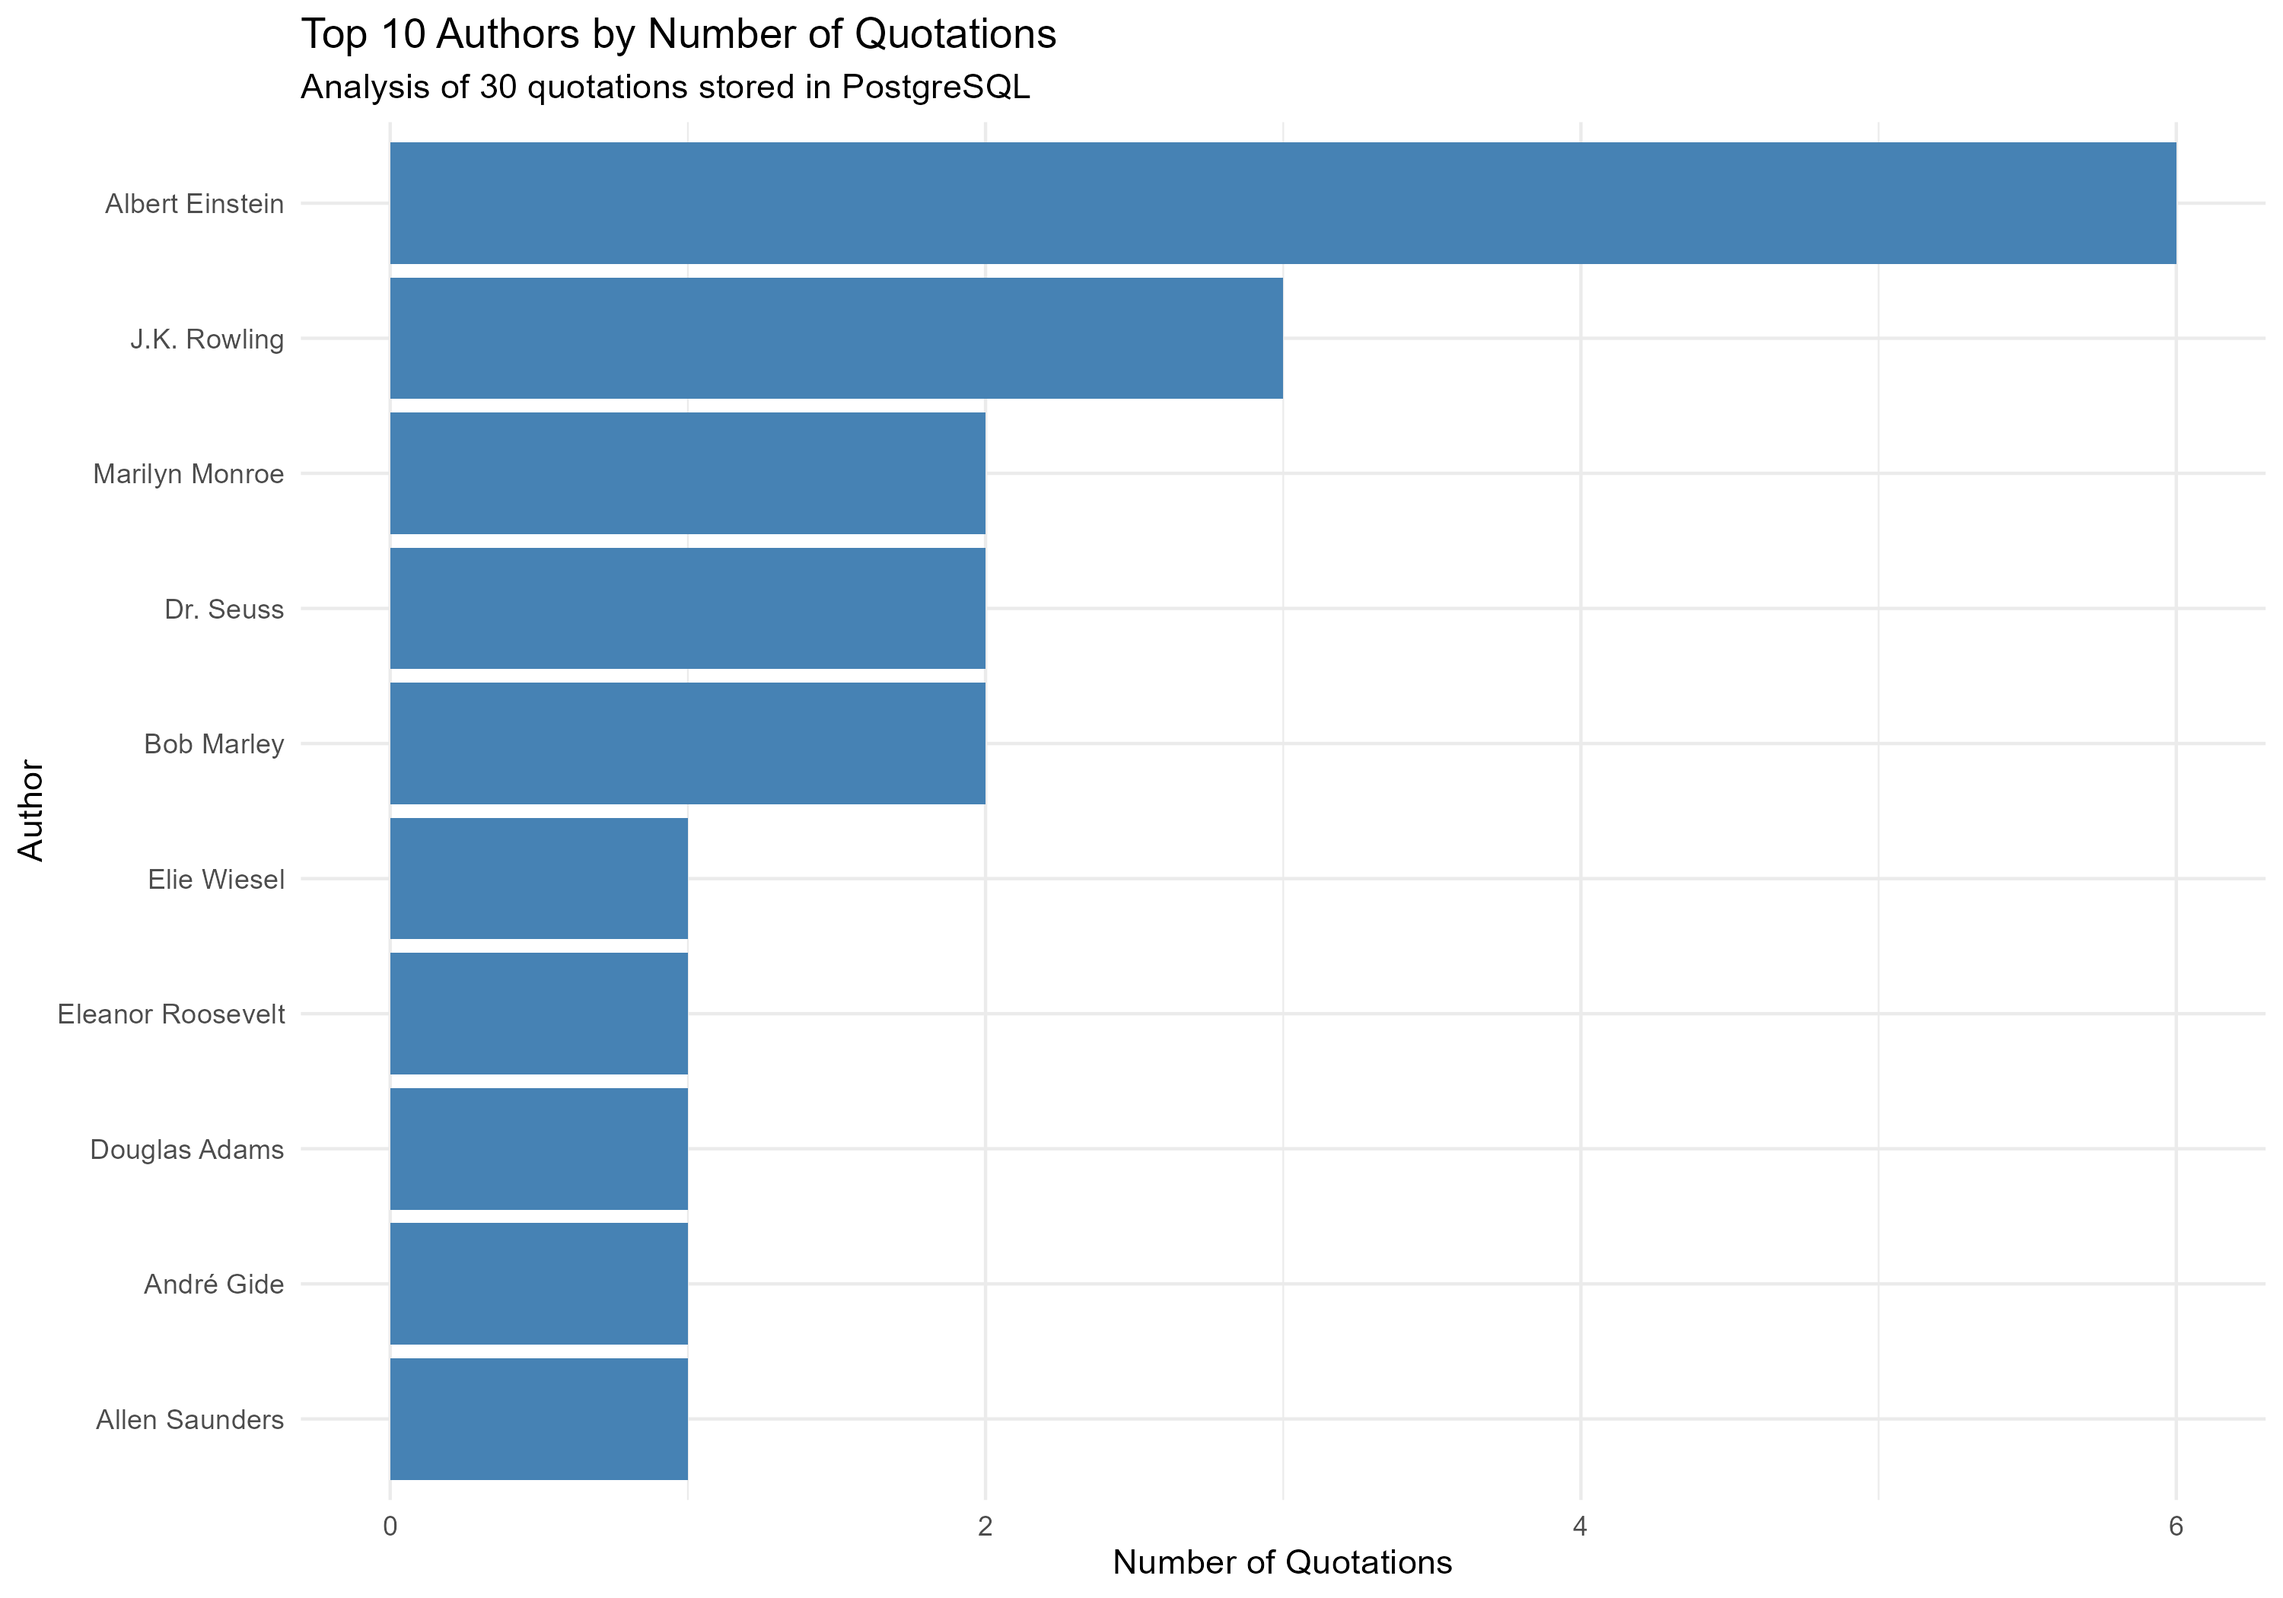
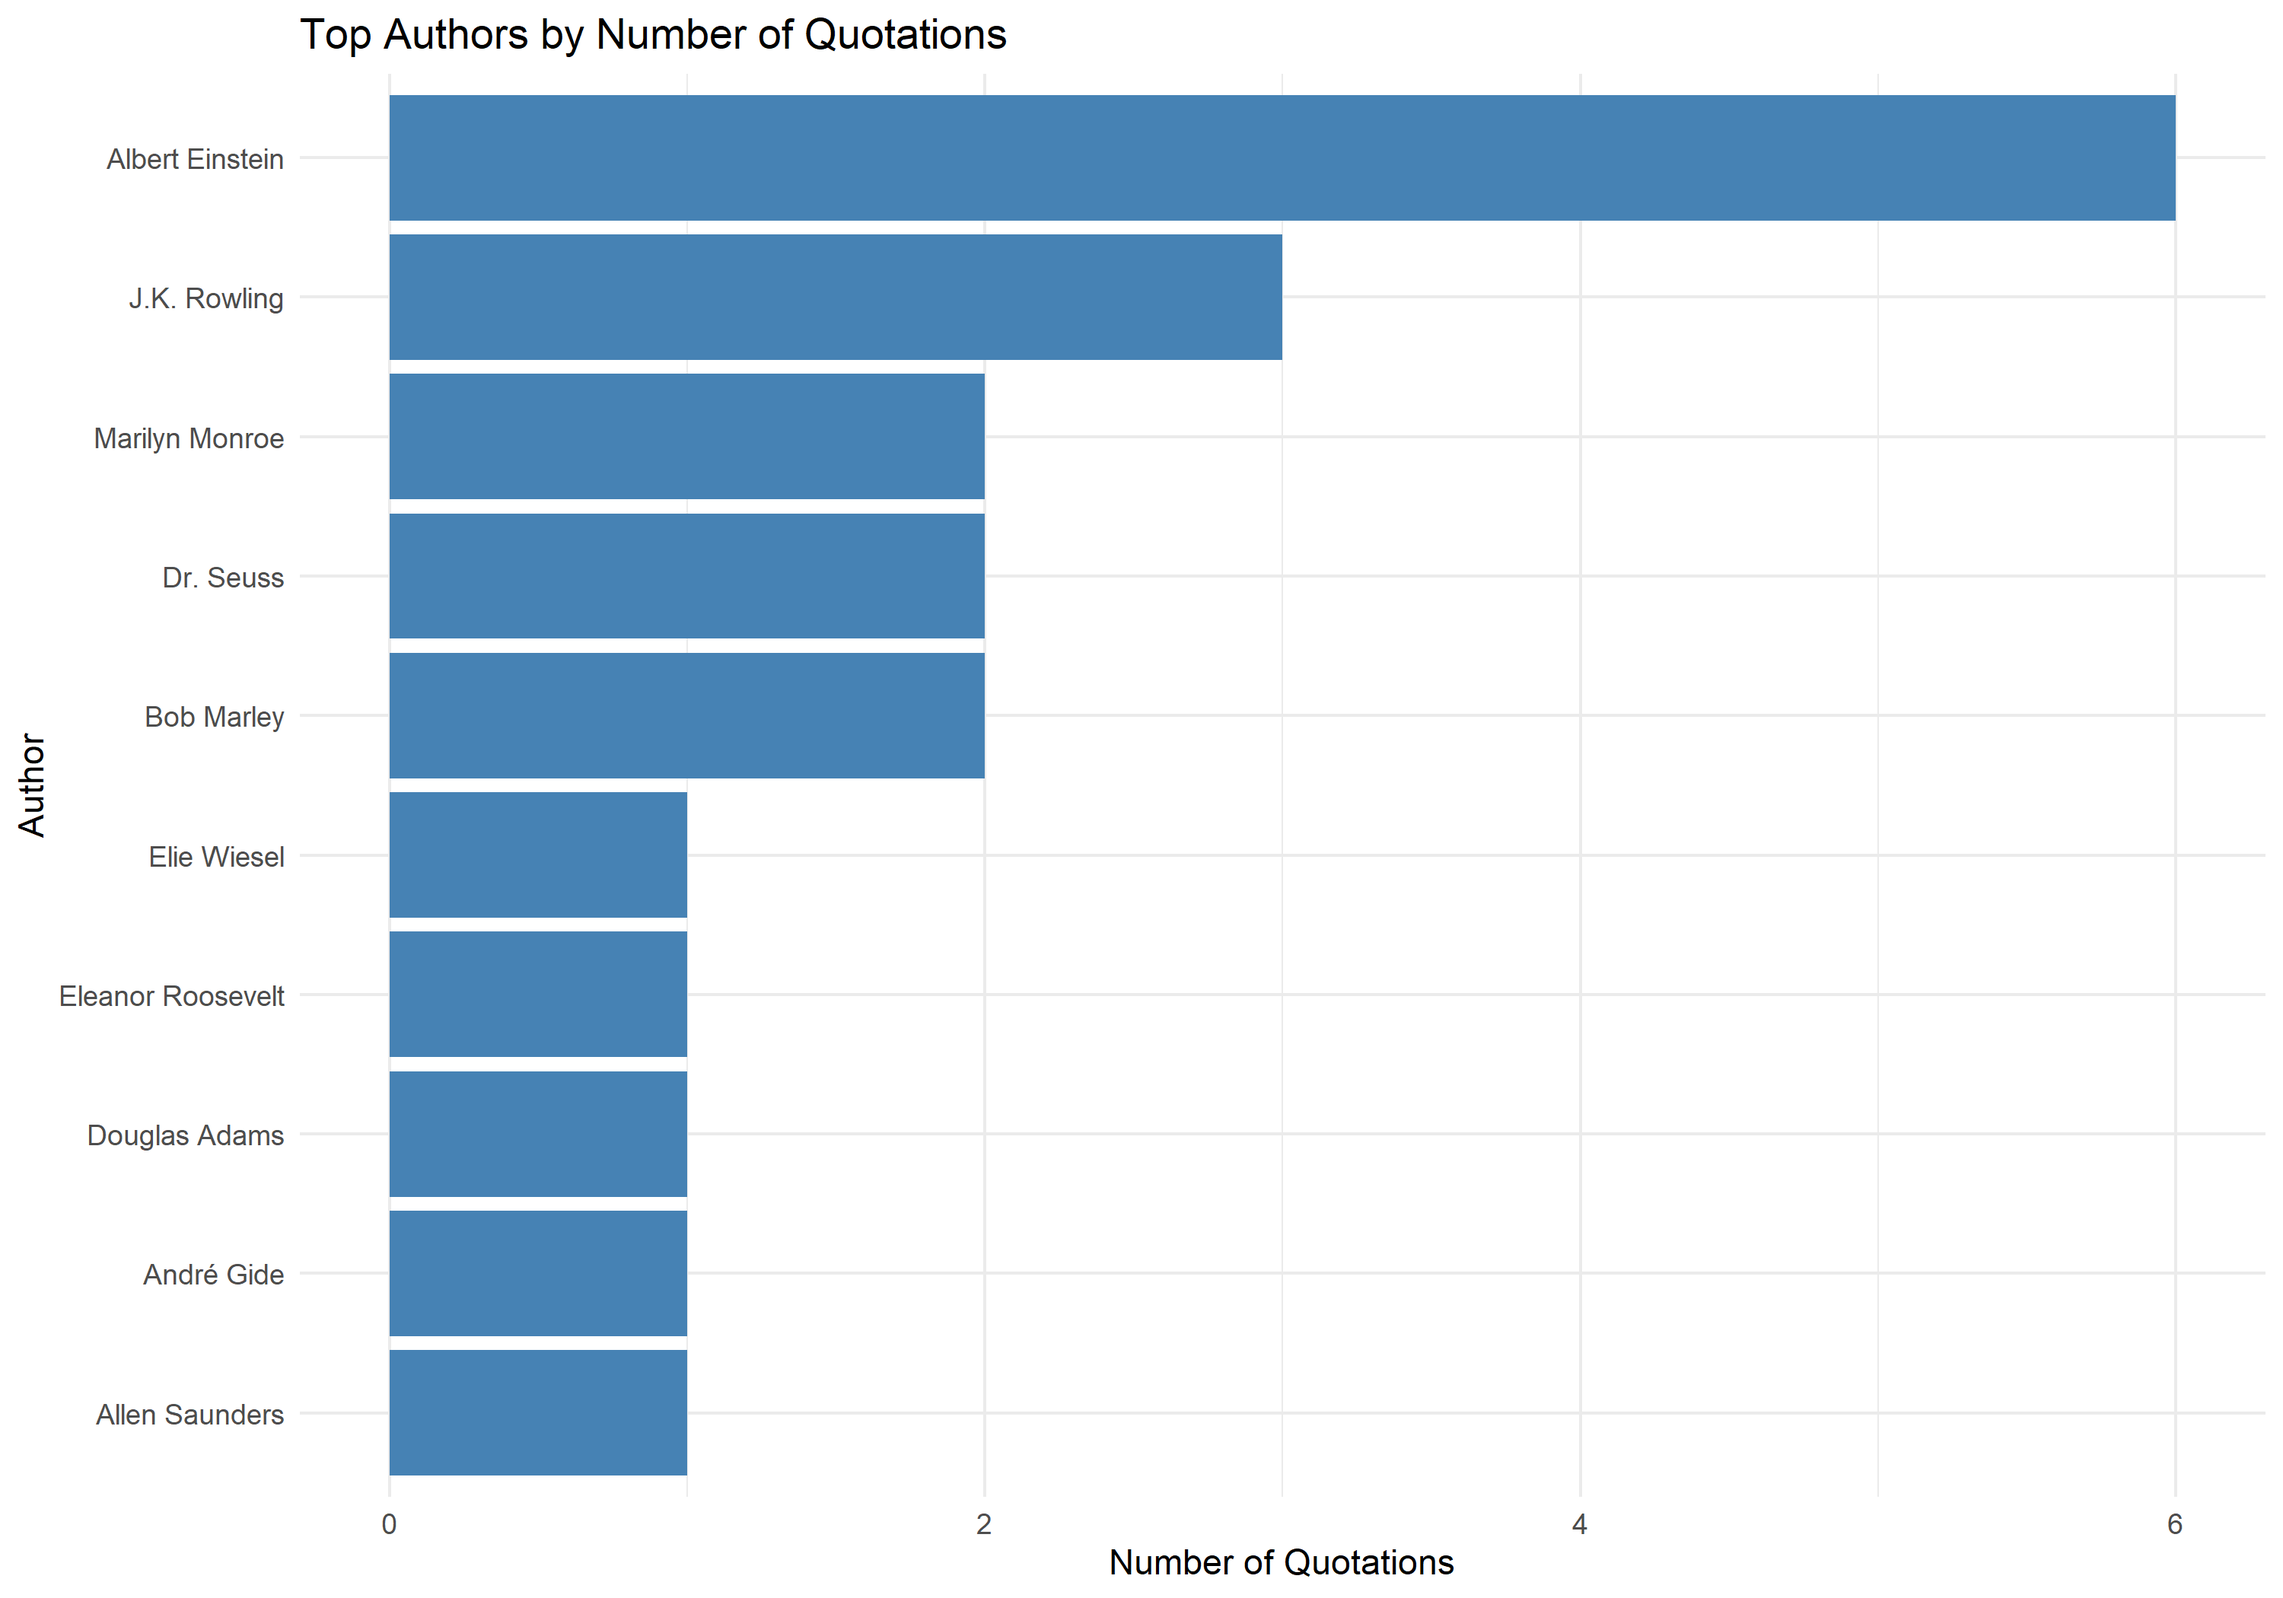
Complete ETL and PostgreSQL analysis workflow

diff --git a/Documentation/ETL_PostgreSQL.md b/Documentation/ETL_PostgreSQL.md
@@ -50,24 +50,26 @@ The cleaned dataset was saved as `ETL_PostgreSQL/data/clean_quotes.csv`, and the
 
 ## 4. PostgreSQL Database Integration (Question 4.3)
 
-A PostgreSQL table named `quotes` was created to store the cleaned quotation records.
+A dedicated PostgreSQL database named `quotes_etl_db` was created to store the cleaned quotation records.
 
-The table contains six columns:
+A relational table named `quotes` was created using the SQL `CREATE TABLE IF NOT EXISTS` statement. The table contains six columns, including an automatically generated primary key.
 
 | Column | Data type | Purpose |
 |---|---|---|
-| `quote_id` | INTEGER | Automatically generated primary key |
+| `quote_id` | SERIAL PRIMARY KEY | Automatically generated unique identifier |
 | `quote` | TEXT | Quotation content |
 | `author` | VARCHAR(255) | Author name |
 | `tags` | TEXT | Comma-separated categories |
-| `source_page` | INTEGER | Original page number |
+| `source_page` | INTEGER | Original webpage number |
 | `quote_length` | INTEGER | Quotation word count |
 
-The table was created using `CREATE TABLE IF NOT EXISTS`, with a primary key and constraints to maintain data integrity.
+The cleaned dataset, `clean_quotes.csv`, was imported into PostgreSQL using the `\copy` command. The import successfully transferred all 30 records into the `quotes` table.
 
-The cleaned data was imported from R using the `DBI` and `RPostgres` packages. The import was executed within a database transaction.
+R database connectivity was subsequently implemented using the `DBI` and `RPostgres` packages. The R script established a connection to PostgreSQL, retrieved the imported record count, executed the two analytical SQL queries and exported their results to CSV files.
 
-A SQL record-count query confirmed that **30 records were successfully stored in PostgreSQL**.
+A verification query confirmed that all 30 quotation records were successfully stored in the database.
+
+The database connection and analytical operations were successfully executed through the R script `ETL_PostgreSQL/scripts/PostgreSQL.r`.
 
 ## 5. SQL Investigation 1: Author Analysis
 
